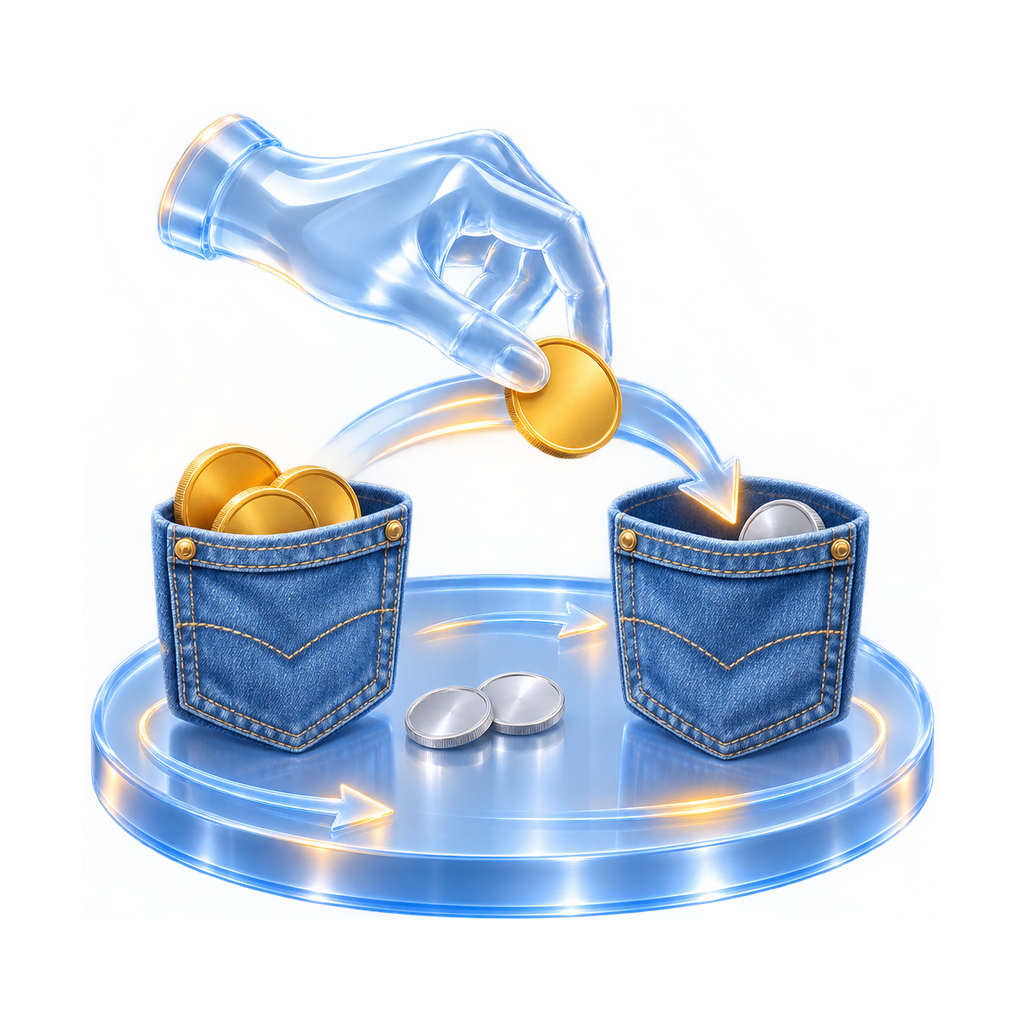
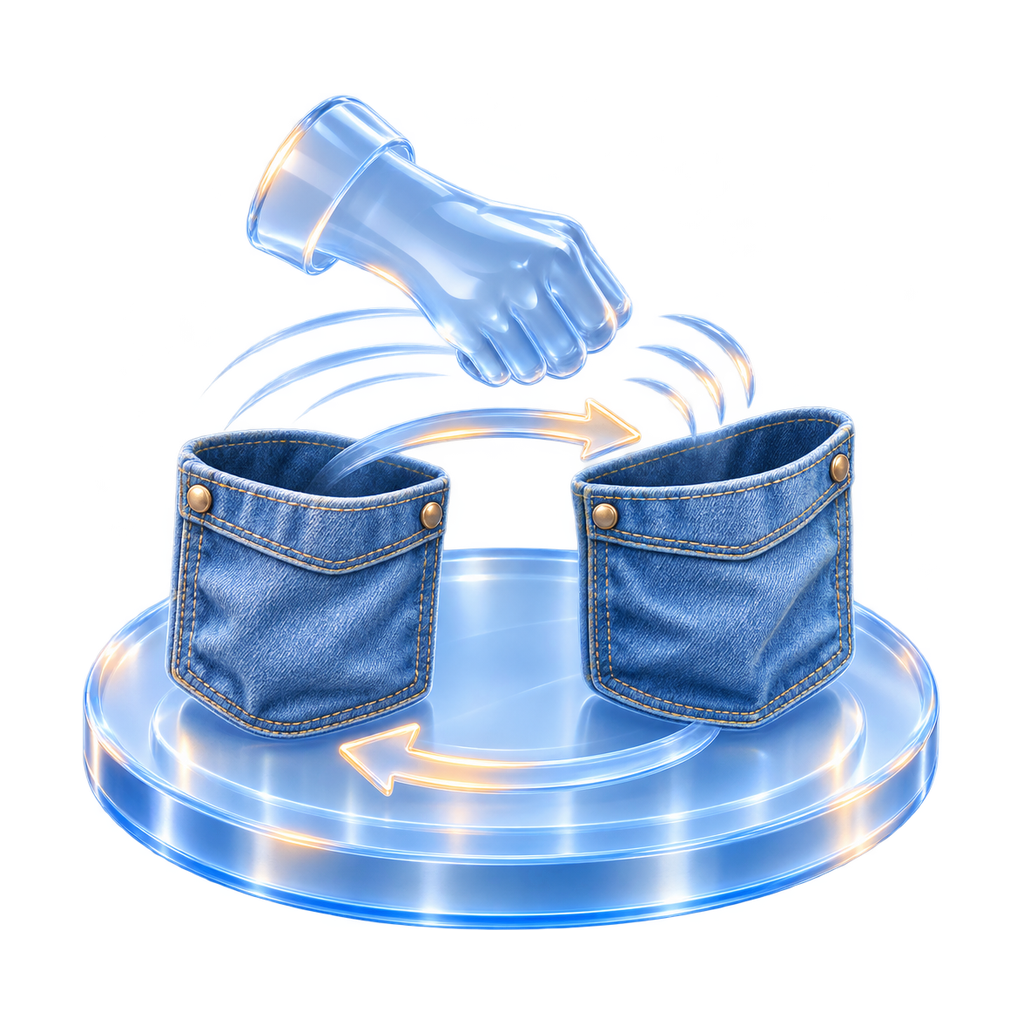
Картинки к опорным задачам k4-01, k4-04, k5-55
Перерисованы так, чтобы нечего было пересчитывать: пирожки в корзинке
под салфеткой (сверху три разломленных — с мясом, капустой, вареньем),
один подъезд крупным планом, монеты спрятаны в карманах. Все 7 опорных
задач «не по условию» теперь с картинками.

Claude-Session: https://claude.ai/code/session_01LvRoNmeHE58oFGXo763LNY

diff --git a/app/src/lib/veroyatnost/kartinkiSyuzhetov45.ts b/app/src/lib/veroyatnost/kartinkiSyuzhetov45.ts
@@ -113,8 +113,11 @@ export const SYUZHET_KARTINKI_45: Readonly<Record<string, string>> = {
   'k5-sl-3': 'basketbolist-do-popadaniya',
   /* Новые картинки вместо прежних «не по условию» (KARTINKA_NE_PO_USLOVIYU):
      предметы на них нельзя пересчитать или их число совпадает с условием. */
+  'k4-01': 'pirozhki-tarelka',
+  'k4-04': 'kot-v-podezde',
   'k4-06': 'sad-foto',
   'k4-11': 'zhrebiy-mars',
   'k5-38': 'pirozhki-paket',
+  'k5-55': 'monety-karmany',
   'k5-60': 'kinder-princessy',
 };

diff --git a/docs/plans/kartinki-k-zadacham.md b/docs/plans/kartinki-k-zadacham.md
@@ -77,7 +77,7 @@
 
 Модель `gpt-image-2.6-sunburst`, `/v1/images/edits`, quality high, 1024×1024, фон прозрачный. Образцы стиля: `app/public/images/zadaniya/3/kub-shar-560.webp`, `app/public/images/zadanie-04/shapka-veroyatnost-prostaya.webp`, `app/public/images/zadanie-01/shapka-planimetriya-768.png`. Текст промпта — константа `STIL` в `tools/kartinki_zadach.py` + сюжет из таблицы ниже (источник — `tools/kartinki-zadach.json`). Перегенерировать сюжет: `python3 tools/kartinki_zadach.py gen <ключ> && python3 tools/kartinki_zadach.py export <ключ>`.
 
-Попыток всего: 710, сюжетов: 444. Стоимость по полю `usage`: **$50.49** (≈ $0.071 за попытку).
+Попыток всего: 713, сюжетов: 444. Стоимость по полю `usage`: **$50.71** (≈ $0.071 за попытку).
 
 | № | Ключ сюжета | Сюжет (часть промпта) | Файл | Попыток | Итог |
 |---|---|---|---|---:|---|
@@ -518,12 +518,12 @@
 | 10 | `e11-plot-kater` | A river with a downstream pier and an upstream boat station; a small raft carrying a sensor buoy drifting downstream, a cutter heading upstream; faceless glass figurine hydrobiologists on the bank. | `images/zadachi/10/e11-plot-kater-560.webp` | 1 | сделано |
 | 10 | `e11-progressiya` | faceless glass figurine volunteers sorting donated books into boxes; a row of book piles, each taller than the previous. | `images/zadachi/10/e11-progressiya-560.webp` | 1 | сделано |
 | 10 | `e11-medlennyy` | Two delivery drones with parcels flying from a warehouse toward a village, one slightly ahead. | `images/zadachi/10/e11-medlennyy-560.webp` | 1 | сделано |
-| 4 | `pirozhki-tarelka` | A large ceramic plate piled high with golden baked pies in a heap, the pies overlap so they cannot be counted; a few pies are slightly broken open showing fillings: meat, cabbage and red jam. Nothing else. | — | 1 | решение автора: видно около 12 пирожков, в условии 16 — противоречит условию; не перерисовано — кончились средства OpenAI |
-| 4 | `kot-v-podezde` | A long multi-storey apartment building seen at an angle, its row of identical entrance doors continues out of the frame on the right; at the nearest entrance a realistic ginger cat peeks out from behind a door; a faceless glass figurine owner stands nearby looking for it. | — | 1 | решение автора: дом кончается в кадре, видно 4–5 подъездов, в условии 10; не перерисовано — кончились средства OpenAI |
+| 4 | `pirozhki-tarelka` | A realistic wicker basket of baked pies covered with a linen napkin so that the pies inside cannot be seen or counted; on top of the napkin lie exactly three golden pies broken open, showing three different fillings: minced meat, cabbage and red jam. Nothing else. | `images/zadachi/4/pirozhki-tarelka-560.webp` | 2 | сделано |
+| 4 | `kot-v-podezde` | A close-up of a single apartment entrance porch: one wooden entrance door slightly open with a realistic ginger cat peeking out, a small canopy above, two steps and a lamp; only this one doorway is shown, no other doors or building parts visible. A faceless glass figurine owner stands on the steps looking at the cat. | `images/zadachi/4/kot-v-podezde-560.webp` | 2 | сделано |
 | 4 | `sad-foto` | A faceless glass figurine girl with a realistic camera standing in a fruit orchard among realistic apple trees, a pear tree and cherry trees; the orchard rows continue into the distance so the trees cannot be counted. | `images/zadachi/4/sad-foto-560.webp` | 1 | сделано |
 | 4 | `zhrebiy-mars` | A realistic white rocket on a launch pad with the red planet Mars in the background; in front of it a glass lottery drum with small capsules, and a single realistic astronaut helmet on a stand. No people. | `images/zadachi/4/zhrebiy-mars-560.webp` | 1 | сделано |
 | 5 | `pirozhki-paket` | A closed realistic brown paper bag of pies standing on a glass base, one golden pie peeking out of the top so the rest are hidden; a faceless glass figurine girl walking along a path beside it, reaching toward the bag. | `images/zadachi/5/pirozhki-paket-560.webp` | 1 | сделано |
-| 5 | `monety-karmany` | Two realistic denim jacket pockets side by side, coins between them: exactly two smaller silver-coloured coins and exactly four larger golden coins, all coin faces completely blank with no digits or letters; a faceless glass hand moving some coins from one pocket to the other. | — | 1 | решение автора: видно 3 серебряные и 3 золотые монеты, в условии 2 и 4; не перерисовано — кончились средства OpenAI |
+| 5 | `monety-karmany` | Two realistic bulging denim jacket pockets side by side; the coins are hidden inside the pockets and are not visible at all; a faceless glass hand is moving between the pockets with its fingers closed, holding something unseen. No coins visible anywhere. | `images/zadachi/5/monety-karmany-560.webp` | 2 | сделано |
 | 5 | `kinder-princessy` | Two realistic chocolate eggs in colourful foil, one unwrapped and split open with a small plastic capsule inside; next to it exactly two small different princess figurines standing on a glass shelf; a faceless glass figurine girl looking at them. No text, no logos. | `images/zadachi/5/kinder-princessy-560.webp` | 1 | сделано |
 
 ---
